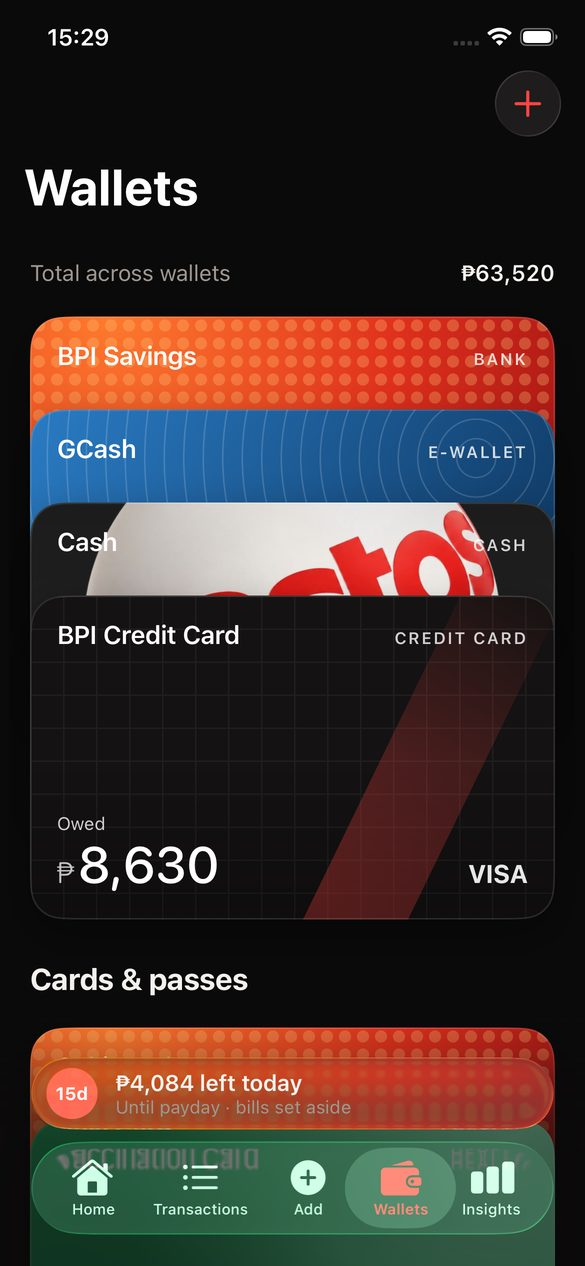
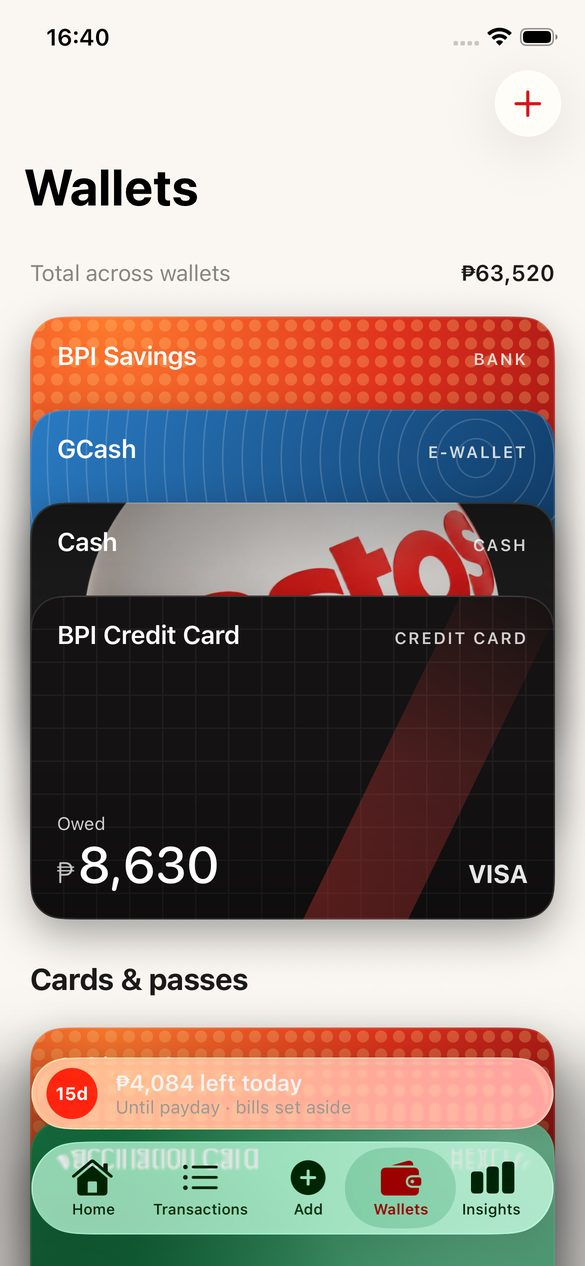
Website: cream background to match the app's light look
Warm cream canvas, white glass cards, dark ink text; app screenshots
retaken in light mode.

diff --git a/web/styles.css b/web/styles.css
@@ -1,13 +1,13 @@
 :root {
-  --canvas: #0B0A0A;
-  --card: #1A1716;
-  --ink: #F5F2EE;
-  --muted: #9E9892;
-  --line: rgba(255, 255, 255, 0.10);
-  --brand: #FF4543;
+  --canvas: #FAF7F2;
+  --card: #FFFFFF;
+  --ink: #1C1A19;
+  --muted: #6E6862;
+  --line: rgba(28, 26, 25, 0.10);
+  --brand: #D8141A;
   --brand-deep: #D8141A;
   --radius: 28px;
-  color-scheme: dark;
+  color-scheme: light;
 }
 
 * { box-sizing: border-box; }
@@ -25,7 +25,7 @@ body {
 }
 
 a { color: var(--brand); }
-a:hover { color: #FF7A6E; }
+a:hover { color: #A50F14; }
 
 .wrap { width: min(1120px, 100% - 32px); margin-inline: auto; }
 
@@ -34,7 +34,7 @@ a:hover { color: #FF7A6E; }
   position: sticky; top: 0; z-index: 10;
   backdrop-filter: blur(20px) saturate(160%);
   -webkit-backdrop-filter: blur(20px) saturate(160%);
-  background: rgba(11, 10, 10, 0.72);
+  background: rgba(250, 247, 242, 0.78);
   border-bottom: 1px solid var(--line);
 }
 .nav .wrap { display: flex; align-items: center; justify-content: space-between; height: 64px; }
@@ -46,9 +46,9 @@ a:hover { color: #FF7A6E; }
 
 /* Glass pieces */
 .glass {
-  background: rgba(255, 255, 255, 0.06);
-  border: 1px solid rgba(255, 255, 255, 0.13);
-  box-shadow: inset 0 1px 0 rgba(255, 255, 255, 0.14), 0 12px 32px rgba(0, 0, 0, 0.35);
+  background: rgba(255, 255, 255, 0.72);
+  border: 1px solid rgba(28, 26, 25, 0.08);
+  box-shadow: inset 0 1px 0 #FFFFFF, 0 12px 32px rgba(28, 26, 25, 0.08);
   backdrop-filter: blur(22px) saturate(160%);
   -webkit-backdrop-filter: blur(22px) saturate(160%);
 }
@@ -58,14 +58,14 @@ a:hover { color: #FF7A6E; }
   font-weight: 600; font-size: 16px; text-decoration: none;
 }
 .pill.primary { background: var(--brand-deep); color: #fff; }
-.pill.primary:hover { background: #B80F15; color: #fff; }
+.pill.primary:hover { background: #A50F14; color: #fff; }
 .pill.ghost { color: var(--ink); }
 
 /* Hero */
 .hero { padding: 72px 0 40px; display: grid; grid-template-columns: 1.05fr 0.95fr; gap: 40px; align-items: center; }
 .eyebrow { color: var(--muted); font-size: 15px; margin: 0 0 14px; }
 h1 { font-size: clamp(40px, 6.4vw, 72px); line-height: 1.02; letter-spacing: -2px; font-weight: 600; margin: 0; }
-h1 .dim { color: #6E6862; }
+h1 .dim { color: #A39C95; }
 .lede { color: var(--muted); font-size: 19px; max-width: 30em; margin: 22px 0 30px; }
 .cta { display: flex; flex-wrap: wrap; gap: 12px; align-items: center; }
 .note { color: var(--muted); font-size: 14px; margin-top: 14px; }
@@ -73,11 +73,11 @@ h1 .dim { color: #6E6862; }
 .phones { position: relative; height: 620px; }
 .phone {
   position: absolute; width: 270px; border-radius: 44px; overflow: hidden;
-  border: 8px solid #1f1c1b; box-shadow: 0 40px 80px rgba(0, 0, 0, 0.55);
+  border: 8px solid #1C1A19; box-shadow: 0 40px 80px rgba(28, 26, 25, 0.22);
   background: #000;
 }
 .phone img { display: block; width: 100%; height: auto; }
-.phone.back { left: 0; top: 60px; transform: rotate(-6deg); opacity: 0.9; }
+.phone.back { left: 0; top: 60px; transform: rotate(-6deg); }
 .phone.front { right: 10px; top: 0; transform: rotate(3deg); }
 
 /* Sections */
@@ -100,7 +100,7 @@ h2 { font-size: clamp(30px, 4.2vw, 46px); letter-spacing: -1.2px; line-height: 1
 .wcard {
   aspect-ratio: 1.585; border-radius: 20px; padding: 16px 18px; color: #fff;
   display: flex; flex-direction: column; justify-content: space-between;
-  box-shadow: inset 0 1px 0 rgba(255, 255, 255, 0.25), 0 14px 28px rgba(0, 0, 0, 0.4);
+  box-shadow: inset 0 1px 0 rgba(255, 255, 255, 0.25), 0 14px 28px rgba(28, 26, 25, 0.18);
   font-size: 14px;
 }
 .wcard b { font-size: 16px; }
@@ -114,7 +114,7 @@ h2 { font-size: clamp(30px, 4.2vw, 46px); letter-spacing: -1.2px; line-height: 1
 
 .shots { display: grid; grid-template-columns: repeat(4, minmax(0, 1fr)); gap: 18px; }
 .shots figure { margin: 0; }
-.shots img { width: 100%; height: auto; border-radius: 30px; border: 6px solid #1f1c1b; display: block; }
+.shots img { width: 100%; height: auto; border-radius: 30px; border: 6px solid #1C1A19; display: block; box-shadow: 0 20px 40px rgba(28, 26, 25, 0.14); }
 .shots figcaption { color: var(--muted); font-size: 14px; margin-top: 10px; text-align: center; }
 
 .privacy-band { border-radius: 34px; padding: 44px; display: grid; grid-template-columns: 1fr 1fr; gap: 30px; align-items: center; }
@@ -132,7 +132,7 @@ footer a:hover { color: var(--ink); }
 .doc h1 { font-size: clamp(36px, 5vw, 52px); margin-bottom: 8px; }
 .doc .updated { color: var(--muted); margin: 0 0 36px; }
 .doc h2 { font-size: 24px; letter-spacing: -0.4px; margin: 40px 0 10px; }
-.doc p, .doc li { color: #D9D3CC; }
+.doc p, .doc li { color: #3A3532; }
 .doc ul { padding-left: 22px; }
 .doc li { margin: 6px 0; }
 .contact-card { border-radius: 24px; padding: 24px 26px; margin: 26px 0; }

diff --git a/web/index.html b/web/index.html
@@ -5,7 +5,7 @@
 <meta name="viewport" content="width=device-width, initial-scale=1, viewport-fit=cover">
 <title>gastos — know where your money goes</title>
 <meta name="description" content="gastos is a simple iPhone money tracker. Log an expense in seconds, see which wallet or card paid, and know how much you can spend today.">
-<meta name="theme-color" content="#0B0A0A">
+<meta name="theme-color" content="#FAF7F2">
 <meta property="og:title" content="gastos — know where your money goes">
 <meta property="og:description" content="Log an expense in seconds, see which wallet or card paid, and know how much you can spend today.">
 <meta property="og:image" content="/img/home.jpg">

diff --git a/web/support/index.html b/web/support/index.html
@@ -5,7 +5,7 @@
 <meta name="viewport" content="width=device-width, initial-scale=1, viewport-fit=cover">
 <title>Support — gastos</title>
 <meta name="description" content="Help with gastos: contact, and answers to common questions.">
-<meta name="theme-color" content="#0B0A0A">
+<meta name="theme-color" content="#FAF7F2">
 <link rel="icon" href="/img/logo.png">
 <link rel="apple-touch-icon" href="/img/apple-touch-icon.png">
 <link rel="preconnect" href="https://fonts.googleapis.com">

diff --git a/web/privacy/index.html b/web/privacy/index.html
@@ -5,7 +5,7 @@
 <meta name="viewport" content="width=device-width, initial-scale=1, viewport-fit=cover">
 <title>Privacy Policy — gastos</title>
 <meta name="description" content="How gastos stores and protects your money data.">
-<meta name="theme-color" content="#0B0A0A">
+<meta name="theme-color" content="#FAF7F2">
 <link rel="icon" href="/img/logo.png">
 <link rel="apple-touch-icon" href="/img/apple-touch-icon.png">
 <link rel="preconnect" href="https://fonts.googleapis.com">
